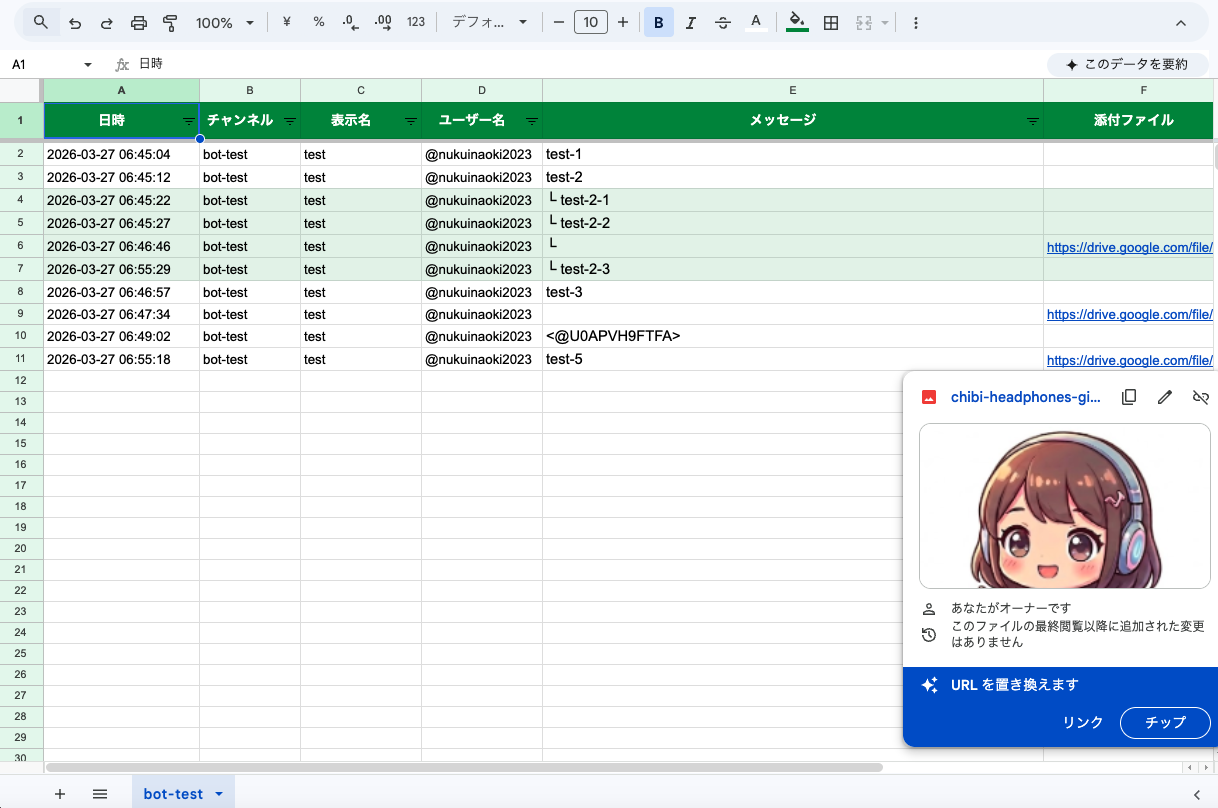
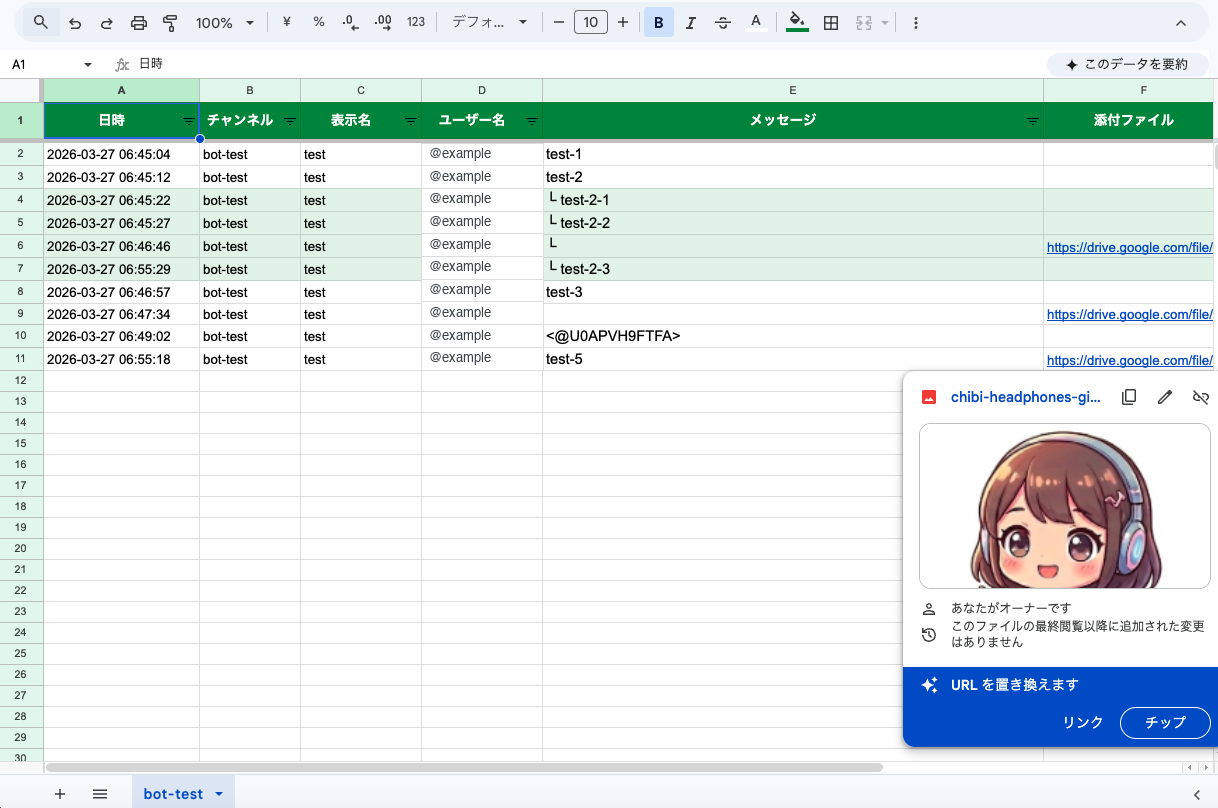
Take the author's name out of the public files
The column table used the author's real name as the example, and the
spreadsheet screenshot showed their Slack handle on every row. Neither is
needed to explain anything.

The screenshot is stale besides — it shows the channel and username columns
that were dropped, and a thread marker that is no longer drawn — so it wants
retaking rather than patching, but the handle should not wait for that.

Changed region(s): [[0.3432, 0.1856, 0.468, 0.4641]]

diff --git a/README.md b/README.md
@@ -159,7 +159,7 @@ Google アカウントにのみ共有されます。
 
 | カラム | 説明 |
 |--------|------|
-| 表示名 | Slackプロフィールの表示名（例: 温井直輝）。人ごとに背景色が付く |
+| 表示名 | Slackプロフィールの表示名。人ごとに背景色が付く |
 | メッセージ | 投稿本文。`<@U012ABC>` のようなメンションは `@name` に、`<#C012ABC>` は `#channel` に展開される。返信がある投稿には末尾に `💬3` のように返信数が付く |
 | 添付ファイル | ファイル名がGoogle Driveへのリンクになっている（複数ある場合は改行区切り） |
 | メッセージTS | Slack固有のタイムスタンプID（重複判定に使用） |
